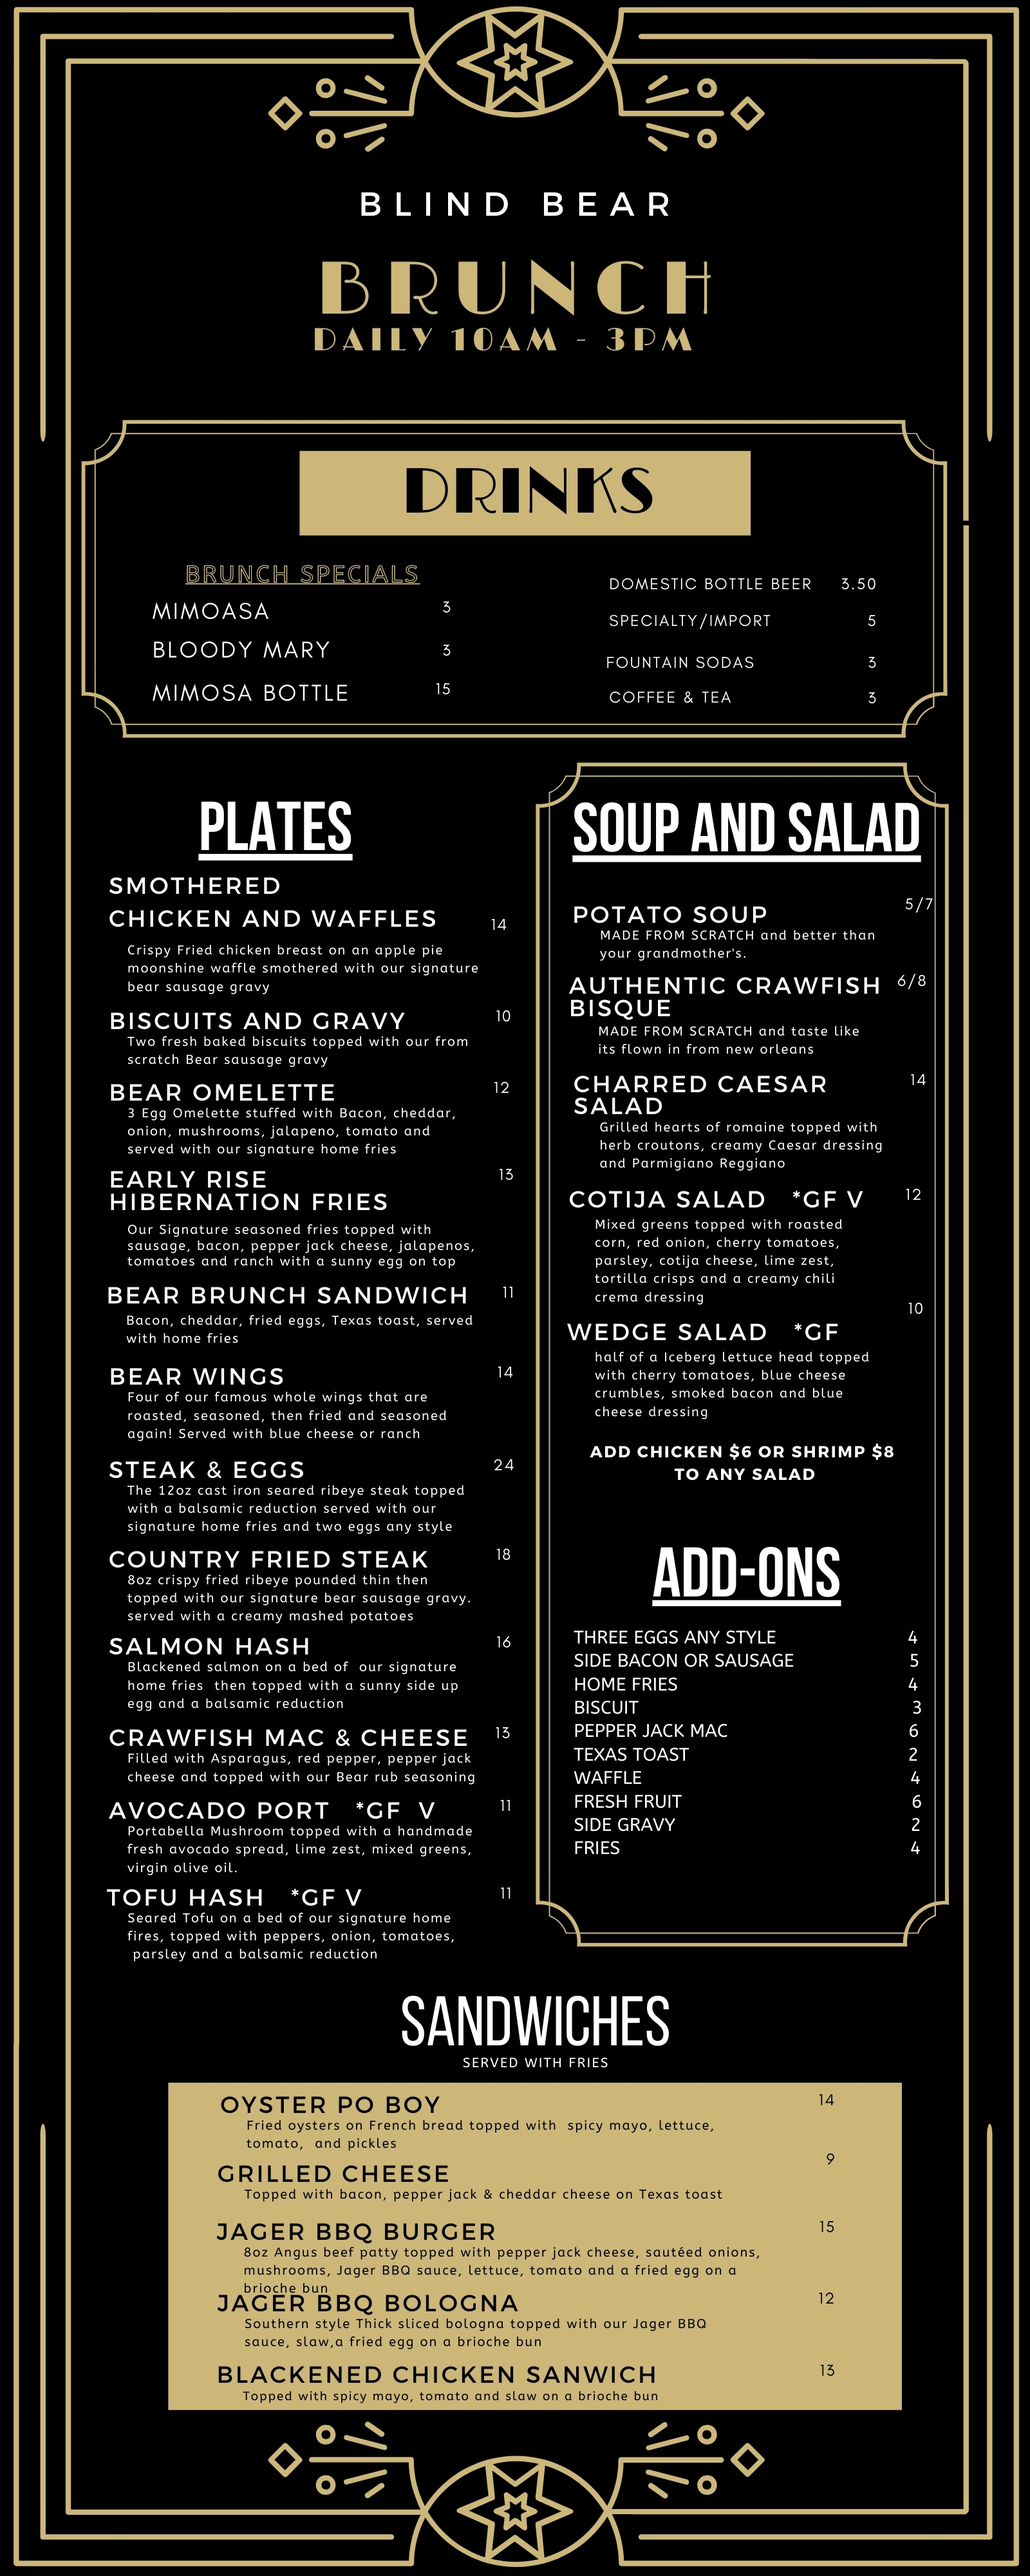
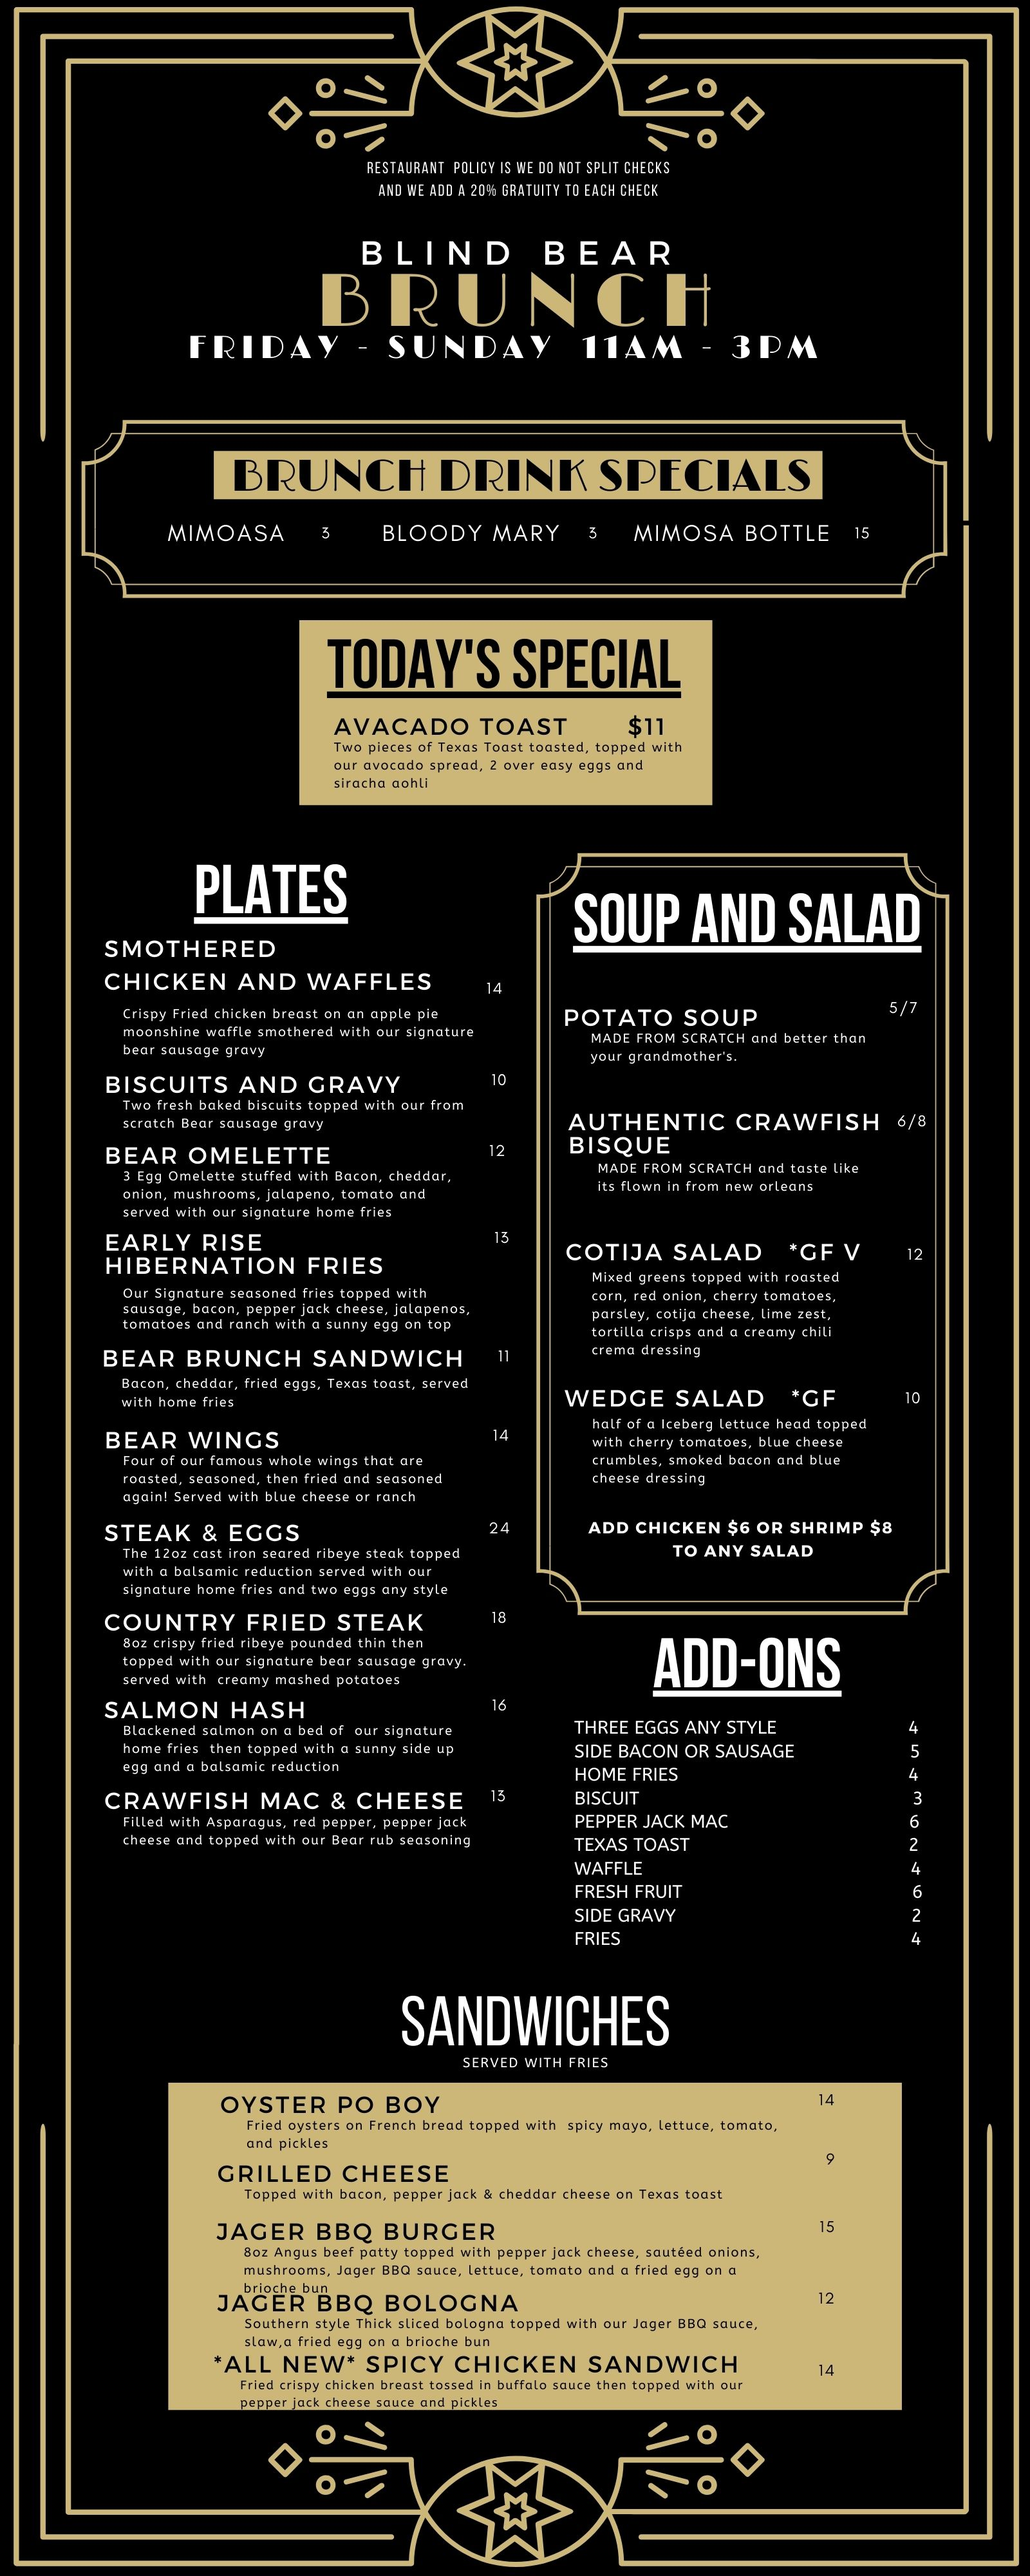
update 4-20

Changed region(s): [[0.0938, 0.0625, 0.9375, 0.7812], [0.2188, 0.9062, 0.7188, 0.9375], [0.0625, 0.2188, 0.0938, 0.2812]]

diff --git a/index.html b/index.html
@@ -140,6 +140,7 @@
         }
         .home-btns .btn {
             font-size: 18px;
+            margin-top: 30px;
             padding: 5px 15px;
             width: 84px;
         }
@@ -193,7 +194,8 @@ div#carry-out {overflow-y: scroll;}
     <nav>
         <a class="logo">
            <!-- add logo for top... not currently working -->
-           <h1>The BLind Bear</h1>
+           <img src="images\logo-white-transparent.png" alt="">
+           <!--<h1>The BLind Bear</h1>-->
                                
         </a>
         <div class="pad-box">
@@ -214,7 +216,7 @@ div#carry-out {overflow-y: scroll;}
            
                 <div class="nav-block sister-links">
                     <a class="col half pad-right" href="/menu-2.html" target="_blank">
-                        <img alt="Takeout" src="images\drink3.jpg"  />
+                        <img alt="Takeout" src="images\Old+Fashioned.jpg"  />
                         <h5>Giggle Water</h5>
                     </a>
                     <a class="col half pad-left" href="/menu-2.html" target="_blank">
@@ -254,14 +256,16 @@ div#carry-out {overflow-y: scroll;}
                     
                     
                     <h2>Shhhhhhh!</h2>
-                    <h7>Are you in the know?</h7>
-                    
-                    <h2>OPEN ALL WEEK</h2>
-                    <h7>10AM - 10 PM</h7>
+                    <h7>CAN YOU KEEP A SECRET?</h7>
+                    <h2>Hours</h2>
+                    <h7>Monday - Wednesday</72>
+                    <h7>3pm - 1 AM</h7>
+                    <h7>Thursday - Sunday</h7>
+                    <h7>11AM - 1 Am</h7>
                 </div>
                 <div class="nav-block newsletter">
                     <h6 class="color-gold">Sign Up For Our Newsletter<br /> To Get The Latest News</h6>
-                    <a href="/signup" class="btn" target="_blank">Sign Up</a>
+                    <a href="https://share.hsforms.com/1DJ_TDjMmRcOH2GCAru7TQg5dnou" class="btn" target="_blank">Sign Up</a>
                 </div>
             </div>
             <span class="clearfix"></span>
@@ -273,17 +277,18 @@ div#carry-out {overflow-y: scroll;}
         <ul class="home-btns">
             <li class="flex-wrap">
                 <a class="btn" href="https://www.google.com/maps/place/Blind+Bear/@35.1417265,-90.0543361,15z/data=!4m5!3m4!1s0x0:0x778cad39f5222021!8m2!3d35.1417265!4d-90.0543361" >Locate Us</a>
-                <h3><a class="text-link" href="#safety" data-lity>Safety Precautions</a></h3>
+                <h3><a class="text-link" href="#safety" data-lity>Safety <br> Precautions</a></h3>
             </li>
-            <li>
+            <!--<li>
                 <a class="btn" target="_blank" href="">Takeout <br>Coming soon</a>
             </li>
             <li>
                 <a class="btn" target="_blank" href="">Delivery <br>Coming Soon</a>
             </li>
+            -->
             <li>
                 <h3 style = "">
-                    <a class="text-link" href="#safety" data-lity="">Safety Precautions</a>
+                    <a class="text-link" href="#safety" data-lity="">Safety <br> Precautions</a>
                 </h3>
             </li>
         </ul>
@@ -291,7 +296,7 @@ div#carry-out {overflow-y: scroll;}
             <p style="padding:5vw; max-width:650px; text-align:center; margin:0 auto; color:white;">
                 Hello, friends! As we re-open our doors and welcome you back to Blind Bear, we are taking every possible precaution to ensure
                 that we’re making the smartest decisions for you and for the community.
-                For now, our seating will be at 50% capacity along with being  spaced out in accordance to health department recommendations. 
+                For now, our seating will be at 25% capacity along with being  spaced out in accordance to health department recommendations. 
                 We ask that guests wear masks upon arrival but if you do not have one we will provide you one. Lastly, per the heath department, if you are going to be drinking 
                 any aloholic beverage we must serve you food as well, this goes without exception.
                 Please stay safe, healthy, and we look forward to seeing you back to Blind Bear.  <br />Bear Staff</p>
@@ -362,12 +367,15 @@ div#carry-out {overflow-y: scroll;}
     <footer class="home-footer">
         <div class="col two-thirds hours">
             <div class="col pad-right">
-                <h2>SHHHHH!</h2>
-                <h7>Are you in the know?</h7>
+                <h2></h2>
+                <h2>hours</h2>
             </div>
             <div class="col pad-left">
-                <h2>OPEN ALL WEEK</h2>
-                <h7>10AM - 10 PM</h7>
+               
+                <h2>Monday - Wednesday</h2>
+                <h7>3pm - 1 am</h7>
+                <h2>Thursday - Sunday</h2>
+                <h7>11AM - 1 AM</h7>
             </div>
             <span class="clearfix"></span>
         </div>
@@ -412,8 +420,10 @@ div#carry-out {overflow-y: scroll;}
         
     </div>
     <div class="hours">
-        <h2>OPEN ALL WEEK</h2>
-        <h7>10AM - 10 PM</h7>
+        <h2>Monday - Wednesday</h2>
+         <h7>3pm - 1 AM </h7>
+         <h2>Thursday - Sunday</h2>
+         <h7>11AM - 1 AM</h7>
     </div>
 </div>
 <div class="col third pad-left text-right">
@@ -421,7 +431,7 @@ div#carry-out {overflow-y: scroll;}
     <h7><a class="location" href="https://www.google.com/maps/place/Blind+Bear/@35.1417265,-90.0543361,15z/data=!4m5!3m4!1s0x0:0x778cad39f5222021!8m2!3d35.1417265!4d-90.0543361" target="_blank">119 S Main St. , <br/>Memphis TN 38103</a></h7>
     <hr />
     <h6 class="color-gold">Sign Up For Our Newsletter<br /> To Get The Latest News</h6>
-    <a href="/signup" class="btn" target="_blank">Sign Up</a>
+    <a href="https://share.hsforms.com/1DJ_TDjMmRcOH2GCAru7TQg5dnou" class="btn" target="_blank">Sign Up</a>
 </div>
 <span class="clearfix"></span>
 </div>

diff --git a/menu-2.html b/menu-2.html
@@ -14,7 +14,7 @@
       href="https://fonts.googleapis.com/css2?family=Lobster&family=Montserrat:wght@400;600&display=swap"
       rel="stylesheet"
     />
-    <link rel="stylesheet" href="menu.css" />
+    <link rel="stylesheet" href="/css/menu.css" />
     <title>Blind Bear</title>
   </head>
   <body>
@@ -45,30 +45,35 @@
             <div class="tab">
                <h1>Giggle Water Drinks</h1>
                 <picture>
-                  <source media="(min-width: 800px)" srcset="resources\images\bar2menu-lrg.jpg">
-                  <source media="(min-width: 350px)" srcset="resources\images\bar2menu-small.jpg">
+                  <source media="(min-width: 800px)" srcset="\images\bar2menu-lrg.jpg">
+                  <source media="(min-width: 350px)" srcset="\images\bar2menu-small.jpg">
                   <img src="resources\images\bar2menu-lrg.jpg" srcset="resources\images\bar2menu-lrg.jpg" alt="bar menu" width="100%">
                 </picture>
             </div>
+
+          
+       
+               
             
      
-          
-          <!--  brunch -->
+          <!--
+           brunch -->
             <input type="radio" name="tabs" id="tabthree">
-            <label for="tabthree">Daily Brunch</label>
+            <label for="tabthree">Brunch</label>
               <div class="tab">
-                <h1>Daily Brunch</h1>
-                <h3> 10AM - 3PM </h3>
+                <h1>Friday - SUNDAY Brunch</h1>
+                <h3> 11AM - 3PM </h3>
                   <picture>
-                    <source media="(min-width: 801px)" srcset="resources\images\brunch-2x.jpg">
-                    <source media="(max-width: 800px)" srcset="resources\images\brunch-1.5x.jpg">
-                    <source media="(max-width: 400px)" srcset="resources\images\brunch-1x.jpg">
-                    <img src="resources\images\brunch-1x.5.jpg" srcset="resources\images\images\brunch-2x.jpg" alt="brunch menu" width="100%">
+                    <source media="(min-width: 801px)" srcset="\images\brunch-2.5x.jpg">
+                    <source media="(max-width: 800px)" srcset="\images\brunch-2x.jpg">
+                    <source media="(max-width: 400px)" srcset="\images\brunch-1x.jpg">
+                    <img src="resources\images\brunch-2.5x.jpg" srcset="resources\images\brunch-2.5x.jpg" alt="brunch menu" width="100%">
                   </picture>
               </div>
         
-        
-        
+            
+
+
         <!--Dinner -->
             <input type="radio" name="tabs" id="tabfive">
             <label for="tabfive">Dinner</label>
@@ -76,28 +81,28 @@
                 <h1>Dinner</h1>
                 <h3> EVERYDAY 3PM - 10PM   </h3>
                   <picture>
-                    <source media="(min-width: 801px)" srcset="resources\images\Dinner-2x.jpg">
-                    <source media="(max-width: 800px)" srcset="resources\images\Dinner-1.5x.jpg">
-                    <source media="(max-width: 400px)" srcset="resources\images\Dinner-1x.jpg">
-                    <img src="resources\images\Dinner-1.5x.jpg" srcset="resources\images\Dinner-2x.jpg" alt="dinner menu" width="100%">
+                    <source media="(min-width: 801px)" srcset="images\Dinner-2.5x.jpg">
+                    <source media="(max-width: 800px)" srcset="images\Dinner-2x.jpg">
+                    <source media="(max-width: 400px)" srcset="images\Dinner-1.5x.jpg">
+                    <img src="resources\images\Dinner-2.5x.jpg" srcset="resources\images\Dinner-2.5x.jpg" alt="dinner menu" width="100%">
                   </picture>
               </div>
+            
 
-        <!--Hibernation -->
-            <input type="radio" name="tabs" id="tabsix">
-            <label for="tabsix">Hibernation </label>
-              <div class="tab">
-                <h1>Hibernation</h1>
-                <h3> EVERYDAY 10PM - CLOSE </h3>
-                  <picture>
-                    <source media="(min-width: 801px)" srcset="resources\images\hibernation-2x.jpg">
-                    <source media="(max-width: 800px)" srcset="resources\images\hibernation-1.5x.jpg">
-                    <source media="(max-width: 400px)" srcset="resources\images\hibernation-1x.jpg">
-                    <img src="resources\images\hibernation-1.5x.jpg" srcset="resources\images\hibernation-1.5x.jpg" alt="dinner menu" width="100%">
-                  </picture>
-              </div>
-    
-            </main>
+                 <!--Hibernation -->
+                 <input type="radio" name="tabs" id="tabsix">
+                 <label for="tabsix"> Late Night Menu </label>
+                   <div class="tab">
+                     <h1> Late Night Menu</h1>
+                     <h3>  </h3>
+                       <picture>
+                         <source media="(min-width: 801px)" srcset="images\hibernation2.5.jpg">
+                         <source media="(max-width: 800px)" srcset="images\hibernation2.jpg">
+                         <source media="(max-width: 400px)" srcset="images\hibernation1.5.jpg">
+                         <img src="images\hibernation2.5.jpG" srcset="images\hibernation2.5.jpG" alt="dinner menu" width="100%">
+                       </picture>
+                   </div>
+     </main>
 <footer>
   <h3>BLIND BEAR 2020</h3>
   <!--<ul>

diff --git a/menu/boxmenu.html b/menu/boxmenu.html
@@ -1,0 +1,64 @@
+<!DOCTYPE html>
+
+<html xmlns="http://www.w3.org/1999/xhtml">
+
+   
+<head>
+
+<title>Menu | Blind Bear</title>
+<meta http-equiv="x-ua-compatible" content="ie=edge">
+<link rel="StyleSheet" type="text/css"  href="/css/boxmenu.css"   />
+<meta charset="utf-8">
+<meta name="viewport" content="width=device-width, initial-scale=1">
+</head>
+
+<body>
+  <header>
+    <nav>
+      <ul>
+        <li>Logo</li>
+        <li>Menu</li>
+     
+      </ul>
+    </nav>
+  </header>
+    
+    <main>
+      <div id="vip">
+        <h2>BECOME A VIP  :  REcieve updates on special events, new menu items and more!</h2>
+             <button>sign up now </button>
+     </div>
+      <div class="wrap">
+        <!-- take out section and class header  -->
+        <section>
+           <div class="header">
+               <ul>
+                   <h3>what are wein the mood for</h3>
+                       <Li> gigle water </Li>
+                        <li>brunch </li>
+                        <li>dinner</li>
+                </ul>                  
+          </div>
+               <h2> Popular items</h2>
+                 <!-- i need 3- 6 most popular items -->
+            </section> 
+
+            <section>
+                <div class="header">
+                
+                </div>
+           </section> 
+
+           <section>
+            <div class="header">
+               
+            </div>
+       </section> 
+             
+
+        </div>
+            
+    </main>
+  
+  </body>
+</html>

diff --git a/css/boxmenu.css b/css/boxmenu.css
@@ -1,0 +1,52 @@
+* {
+    margin: 0;
+    padding: 0;
+    box-sizing: border-box;
+}
+
+html{
+    font-size: 100%;
+    background-color: black;
+    color: aliceblue;
+  }
+  nav {
+    background-color: #CCB779;
+    height: 100px;
+  }
+
+  main{
+    margin-top: 30px;
+    
+  }
+
+  #vip{
+    margin: 50px 50px 0px 50px ;
+    padding:10px;
+    background-color:#e21818;
+     
+  }
+  .wrap{
+    margin: 0px 50px 0px 50px;
+    padding:10px;    
+    background-color:#000000;
+  }
+  .header{
+      display:flex;
+    text-align: center;
+    background-color:#739919;
+    margin: 30px 50px;
+    padding: 20px;
+
+  }
+
+  .menu{
+    width: 100%;
+    height: 100%;
+  }
+
+  .border{
+    background-image: url("/images/128\ facebook.png");
+  }
+ 
+  
+  
